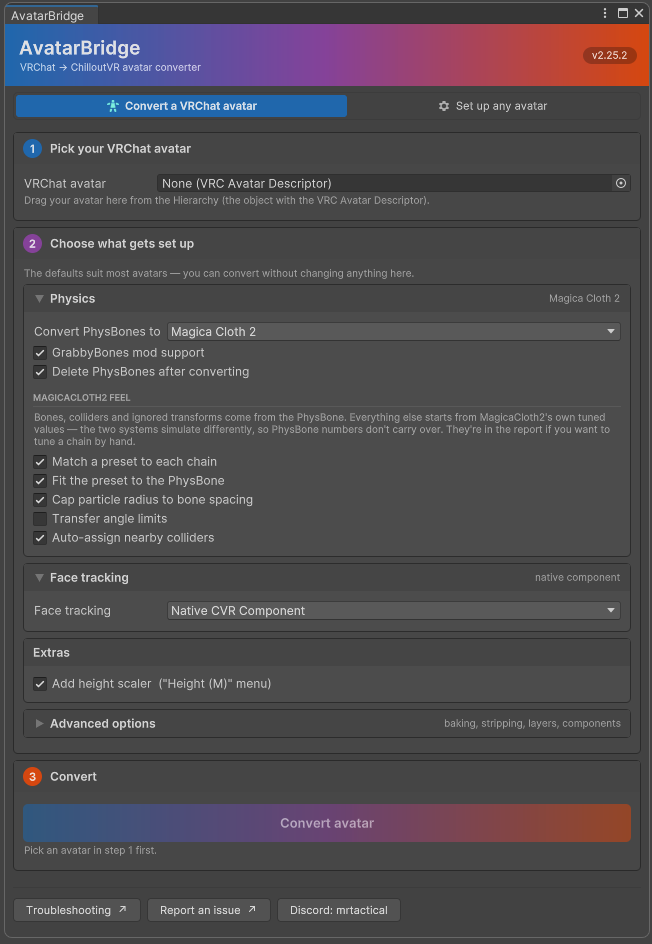
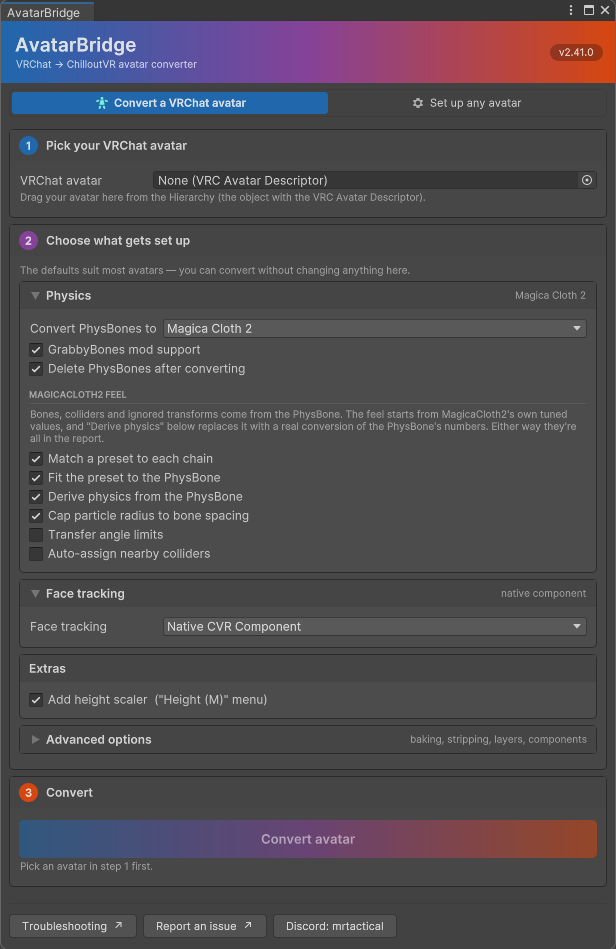
2.41.1: document the store description, and refresh the window screenshot
Three releases of work with zero mentions in the README. The feature that
writes and fills the upload page's Description box was not described anywhere a
user would look -- only in release notes, which nobody reads twice.

Added as its own section with a worked example, both buttons explained, and the
two properties that matter: every line is checked against what was built rather
than what was asked for, and it is sized to ChilloutVR's 256-character box with
room left over for the user's own words. Plus a highlights bullet, since it is
the kind of thing that sells a tool.

New window screenshot, showing the settings at their real defaults -- so the
front page now depicts what a fresh install looks like rather than one
particular session's preferences.

Audited the rest while there. Every setting default in the options tables still
matches BridgeSettings, all internal anchors resolve, all eighteen external
links are intact, and the only version pinned in prose is Unity 2022.3.22f1,
which is right.

diff --git a/Editor/BridgeDefines.cs b/Editor/BridgeDefines.cs
@@ -25,7 +25,7 @@ namespace AvatarBridge
     public static class BridgeDefines
     {
         /// <summary>Tool version, shown in the converter window title.</summary>
-        public const string Version = "2.41.0";
+        public const string Version = "2.41.1";
 
         public const string MagicaDefine = "AVATARBRIDGE_MAGICA";
         public const string DynamicBoneDefine = "AVATARBRIDGE_DYNBONE";

diff --git a/README.md b/README.md
@@ -64,6 +64,8 @@ actually running.
   double-wide, so shaders that never opted in draw into one eye only.
 - **Diagnostics that know ChilloutVR** — the report names components CVR silently deletes on load,
   tracks the 3200-bit sync budget, and flags shaders the uploader will reject.
+- **Your avatar writes its own store listing** — counted from what was actually built, sized to
+  ChilloutVR's 256-character box, and typed straight into the upload page.
 
 *(No VRChat SDK installed? The tool still runs in [Setup mode](#setup-mode) and prepares any
 humanoid for ChilloutVR.)*
@@ -339,6 +341,40 @@ blendshapes. On a typical VRCFT avatar that's a couple of layers and a few hundr
 **Either mode needs a tracking source at runtime** — true of any CVR face-tracking avatar. Run
 [VRCFaceTracking](https://store.steampowered.com/app/3329480) and set CVR's *Eye Tracking* and
 *Mouth Tracking* modules to **OSC**.
+
+## Store description
+
+ChilloutVR's upload page wants a description, and most listings never get one. AvatarBridge writes
+a starting point out of what the conversion actually produced:
+
+```
+
+                        ← your own words go here
+
+Vap
+8 toggles · 9 sliders · 9 physics chains (MagicaCloth 2) · blink and lip sync
+
+Converted from VRChat with AvatarBridge
+github.com/MrTactical/AvatarBridge
+```
+
+Two buttons on the report:
+
+- **Fill CCK description** — types it into the Content Manager's Description box. Open the CCK
+  Control Panel on the **Builder** tab with your avatar selected first. It won't touch the box if
+  you've already written something there.
+- **Copy description** — puts it on the clipboard to place yourself.
+
+Either way it's saved as `Description.txt` beside the report.
+
+**Every line is counted from the finished avatar**, so no two are alike — and each claim is checked
+against what was *built*, not what you asked for. Face tracking is only mentioned if the component
+is really there; the height slider only if its control reached the menu. This text goes into a
+public listing under your name, so a line it can't verify is a line it doesn't print.
+
+It's also built to fit: ChilloutVR's box holds **256 characters**, and ~90 of those are left free
+for your own words. The generated part is meant to be the footer of your description, not the whole
+of it.
 
 ## Setup mode
 
